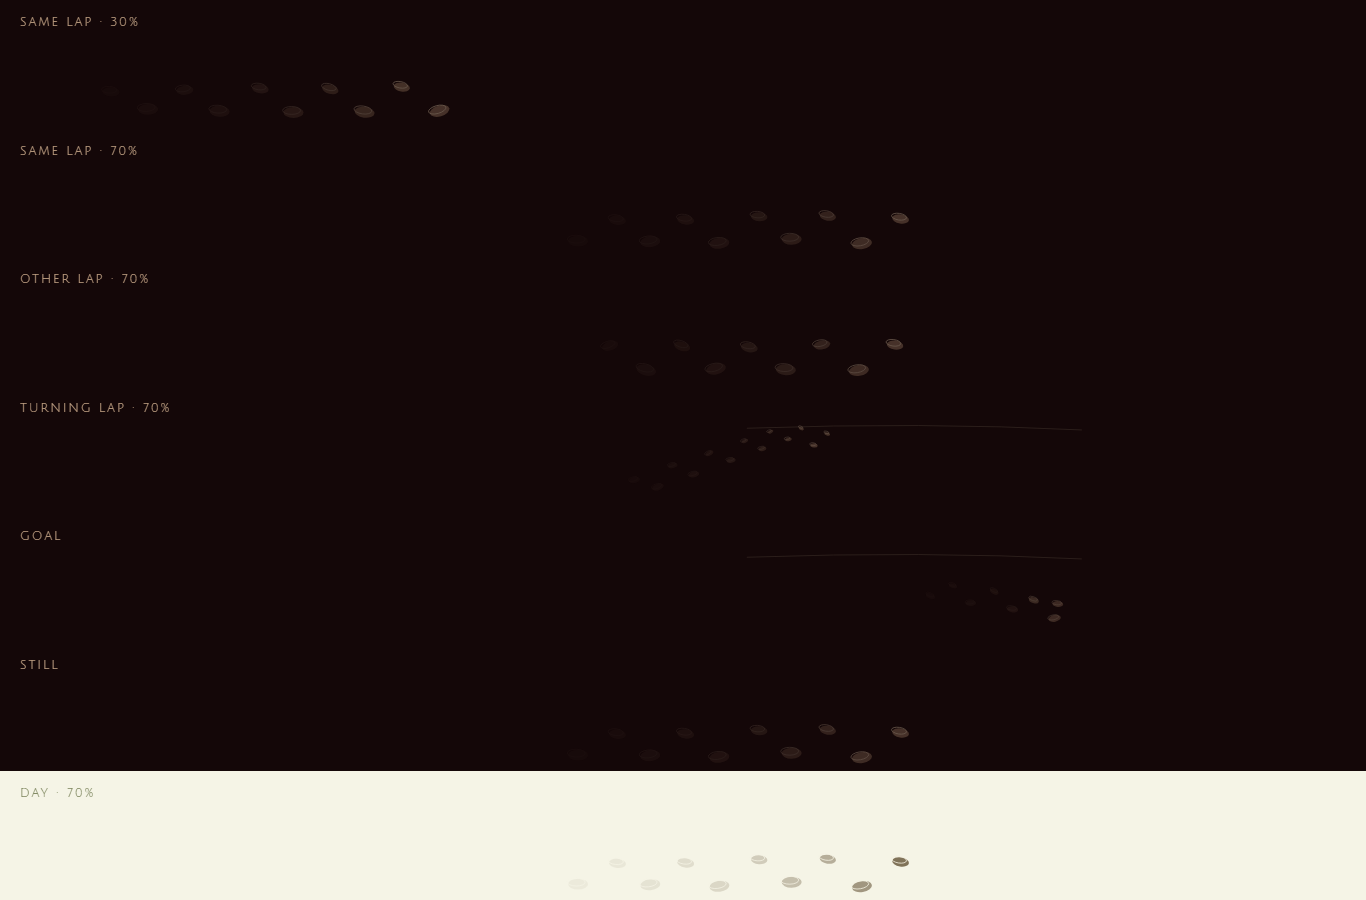
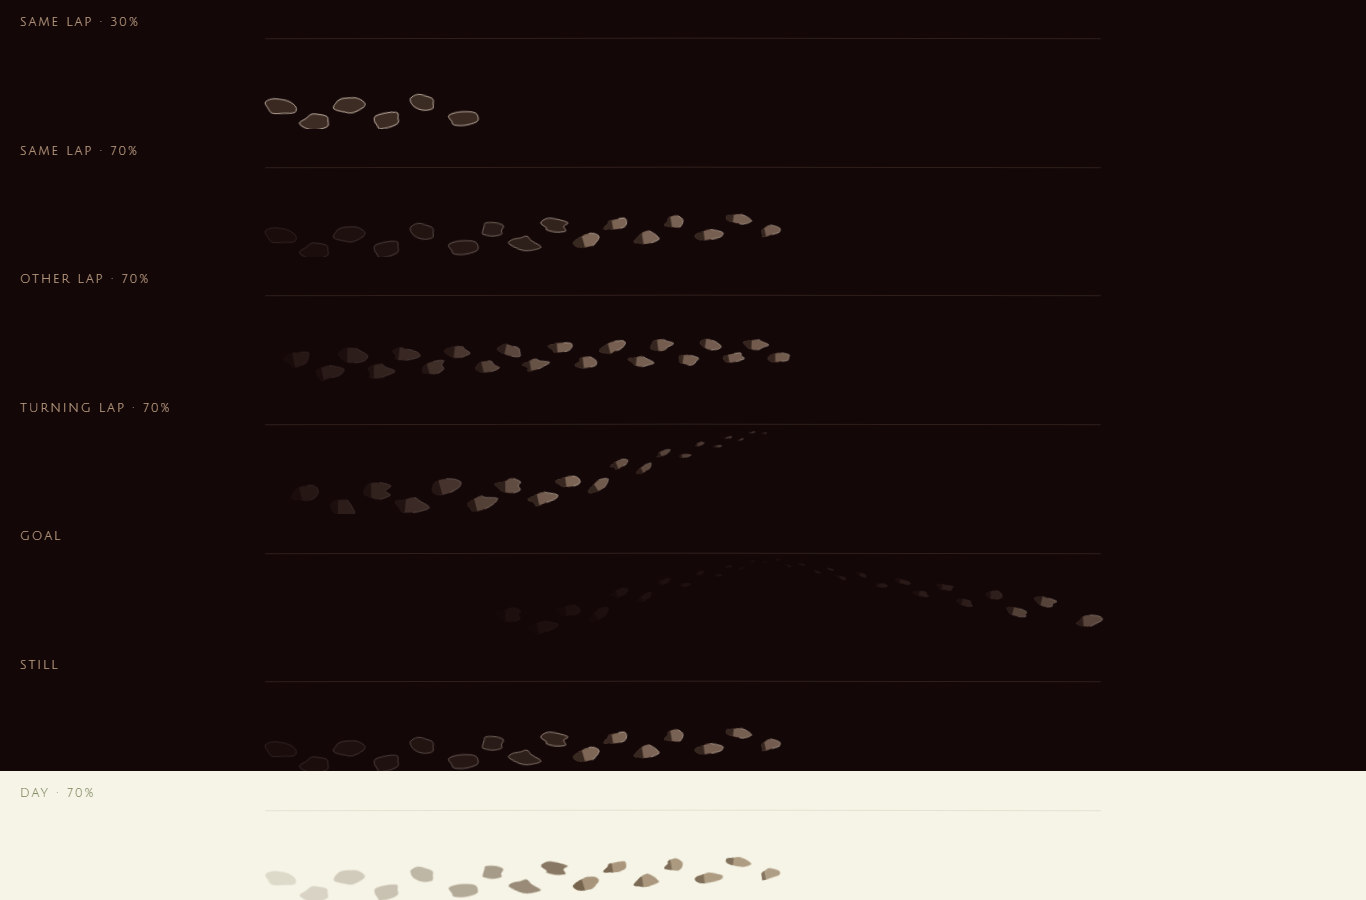
Flow the braid route and set the Trail prints in perspective.

diff --git a/docs/mockups/nomad-v2/index.html b/docs/mockups/nomad-v2/index.html
@@ -318,27 +318,30 @@
   function lapPlan(seed, opts) {
     opts = opts || {};
     var turn = opts.level ? false : !!opts.turn;
-    var swing = turn && !!opts.swing;
-    var turnAt = 0.36 + hash(seed, 1) * 0.1;
-    var swingAt = Math.min(0.84, turnAt + 0.24);
-    var W = 1400, H = turn ? 176 : 112;
+    var swing = turn && opts.swing !== false;
+    var turnAt = 0.4 + hash(seed, 1) * 0.1;
+    var swingAt = Math.min(0.88, turnAt + 0.26);
+    var W = 1400, H = 168, horizonY = 18, nearY = H - 26;
+    var wander = 8 + hash(seed, 4) * 22;
     var samples = [];
-    var steps = 100;
+    var steps = 140;
     for (var i = 0; i <= steps; i++) {
       var t = i / steps;
-      var x = 36 + t * (W - 78);
-      var y = H - 32 + (hash(seed, 20 + i) - 0.5) * 4;
+      var x = 28 + (1 - Math.pow(1 - t, 0.8)) * (W - 64);
+      x += Math.sin(t * (4.2 + hash(seed, 5) * 3.5) + seed) * wander * (1 - t * 0.35);
+      var y = nearY - t * 0.34 * (nearY - horizonY);
+      y += Math.sin(t * (2.4 + hash(seed, 6) * 2.2) + seed * 0.6) * 7 * (1 - t * 0.5);
       if (turn && t > turnAt) {
         var span = swing ? (swingAt - turnAt) : (1 - turnAt);
         var u = Math.min(1, (t - turnAt) / span);
-        var rise = u * (H - 64);
-        y -= rise;
+        y = y + (horizonY + 10 - y) * u;
         if (swing && t > swingAt) {
           var v = Math.min(1, (t - swingAt) / (1 - swingAt));
-          y += v * rise * 0.78;
+          var back = nearY - 0.2 * (nearY - horizonY);
+          y = y + (back - y) * v;
         }
       }
-      samples.push({ x: x, y: y });
+      samples.push({ x: x, y: Math.max(horizonY + 3, Math.min(nearY + 8, y)), t: t });
     }
     samples[0].s = 0;
     samples[0].ang = 0;
@@ -350,49 +353,97 @@
       samples[j].s = len;
       samples[j].ang = Math.atan2(dy, dx);
     }
-    return { samples: samples, len: len, H: H, W: W, turn: turn };
+    return { samples: samples, len: len, H: H, W: W, turn: turn, horizonY: horizonY, nearY: nearY };
+  }
+  function dentPath(seed, i, sc, flat) {
+    var n = 9, pts = [];
+    for (var k = 0; k < n; k++) {
+      var a = (k / n) * Math.PI * 2;
+      var front = Math.cos(a);
+      var heel = front < -0.25 ? 0.84 : 1;
+      var jit = 0.62 + hash(seed, i * 19 + k) * 0.7;
+      pts.push([Math.cos(a) * 26 * sc * heel * jit, Math.sin(a) * 13 * sc * flat * (0.78 + hash(seed, i * 19 + k + 8) * 0.4)]);
+    }
+    var d = '';
+    for (var k = 0; k < n; k++) {
+      var p0 = pts[(k + n - 1) % n], p1 = pts[k], p2 = pts[(k + 1) % n], p3 = pts[(k + 2) % n];
+      var c1x = p1[0] + (p2[0] - p0[0]) / 6, c1y = p1[1] + (p2[1] - p0[1]) / 6;
+      var c2x = p2[0] - (p3[0] - p1[0]) / 6, c2y = p2[1] - (p3[1] - p1[1]) / 6;
+      if (k === 0) d += 'M ' + p1[0].toFixed(2) + ' ' + p1[1].toFixed(2);
+      d += ' C ' + c1x.toFixed(2) + ' ' + c1y.toFixed(2) + ' ' + c2x.toFixed(2) + ' ' + c2y.toFixed(2) + ' ' + p2[0].toFixed(2) + ' ' + p2[1].toFixed(2);
+    }
+    return d + ' Z';
   }
   function renderTrail(frac, seed, opts) {
     opts = opts || {};
     var day = !!opts.day;
     var plan = lapPlan(seed, opts);
-    var shadow = day ? '#6E5E42' : '#5A4336';
-    var rim = day ? '#F4EFE0' : '#8C7968';
-    var haze = day ? '#C9BEA4' : '#3A2C26';
-    var gid = 'hg' + seed + (day ? 'd' : 'n') + Math.round(frac * 100) + (opts.goal ? 'g' : '');
-    var s = '';
-    if (plan.turn) s += '<path d="M '+(plan.W * 0.58).toFixed(0)+' '+(plan.H * 0.14).toFixed(0)+' Q '+(plan.W * 0.8).toFixed(0)+' '+(plan.H * 0.08).toFixed(0)+' '+plan.W+' '+(plan.H * 0.16).toFixed(0)+'" fill="none" stroke="'+haze+'" stroke-width="1.3" opacity="0.85"/>';
-    var positions = [];
-    var dist = 24;
-    var k = 0;
-    while (dist < plan.len - 6) {
-      positions.push(dist);
-      var here = pointAt(plan.samples, dist);
-      var high = Math.max(0, (plan.H * 0.7 - here.y) / (plan.H * 0.48));
-      dist += 40 * (1 - high * 0.4) * (0.9 + hash(seed, 100 + k) * 0.2);
-      k++;
+    var body = day ? '#A08B70' : '#8A7160';
+    var heel = day ? '#6A5640' : '#3C2C24';
+    var lip = day ? '#F3EBDD' : '#E4D5C4';
+    var haze = day ? '#C9BEA4' : '#6A5648';
+    var s = '<defs><filter id="grit" x="-40%" y="-40%" width="180%" height="180%"><feTurbulence type="fractalNoise" baseFrequency="0.07" numOctaves="2" seed="'+seed+'"/><feDisplacementMap in="SourceGraphic" scale="1.15"/></filter></defs>';
+    s += '<path d="M 0 '+plan.horizonY+' Q '+(plan.W/2)+' '+(plan.horizonY-2)+' '+plan.W+' '+plan.horizonY+'" fill="none" stroke="'+haze+'" stroke-width="1" opacity="0.55"/>';
+    var stride = 34 + hash(seed, 9) * 26;
+    var marks = [];
+    var t = 0.015;
+    var last = null;
+    while (t < 0.992) {
+      var smp = null;
+      for (var si = 1; si < plan.samples.length; si++) if (plan.samples[si].t >= t) { smp = plan.samples[si]; break; }
+      if (!smp) break;
+      var depth = Math.max(0, Math.min(1, (plan.nearY - smp.y) / (plan.nearY - plan.horizonY)));
+      var want = stride * (0.16 + 0.84 * (1 - depth));
+      if (!last || Math.hypot(smp.x - last.x, smp.y - last.y) >= want) {
+        marks.push(t);
+        last = smp;
+      }
+      t += 0.0035;
     }
-    if (frac >= 0.999) positions.push(plan.len);
-    var reach = frac * plan.len;
-    positions.forEach(function (at, i) {
-      if (at > reach + 0.2 && frac < 0.999) return;
-      var p = pointAt(plan.samples, Math.min(at, plan.len));
+    if (frac >= 0.999) marks.push(1);
+    marks.forEach(function (at, i) {
+      if (at > frac + 0.004 && frac < 0.999) return;
+      var p = (function () {
+        var samples = plan.samples;
+        if (at <= 0) return samples[0];
+        if (at >= 1) return samples[samples.length - 1];
+        for (var si = 1; si < samples.length; si++) {
+          if (samples[si].t >= at) {
+            var f = (at - samples[si - 1].t) / Math.max(0.0001, samples[si].t - samples[si - 1].t);
+            return {
+              x: samples[si - 1].x + (samples[si].x - samples[si - 1].x) * f,
+              y: samples[si - 1].y + (samples[si].y - samples[si - 1].y) * f,
+              ang: samples[si].ang || 0
+            };
+          }
+        }
+        return samples[samples.length - 1];
+      })();
+      var depth = Math.max(0, Math.min(1, (plan.nearY - p.y) / (plan.nearY - plan.horizonY)));
+      var sc = Math.max(0.07, 1 - depth * 0.9);
+      var flat = 0.32 + 0.68 * (1 - depth);
       var side = i % 2 === 0 ? -1 : 1;
-      var off = (13 + (hash(seed, 140 + i) - 0.5) * 3.5) * side;
+      var off = (15 * sc) * side * (0.85 + hash(seed, 140 + i) * 0.3);
       var nx = Math.cos((p.ang || 0) + Math.PI / 2);
       var ny = Math.sin((p.ang || 0) + Math.PI / 2);
       var x = p.x + nx * off;
       var y = p.y + ny * off;
-      var depth = Math.max(0, Math.min(1, (y - plan.H * 0.1) / (plan.H * 0.68)));
-      var sc = 0.38 + 0.62 * depth;
-      var behind = (reach - at) / 40;
-      var clear = Math.min(day ? 0.92 : 0.72, Math.exp(-Math.max(0, behind) / 3.4));
-      if (opts.goal) clear *= behind < 1.4 ? 0.8 : 0.35;
-      if (clear < 0.06) return;
-      var rot = ((p.ang || 0) + (hash(seed, 180 + i) - 0.5) * 0.35) * 180 / Math.PI;
-      s += '<g transform="translate('+x.toFixed(1)+' '+y.toFixed(1)+') rotate('+rot.toFixed(1)+')" opacity="'+Math.max(0.06, clear).toFixed(2)+'">';
-      s += '<ellipse cx="1.15" cy="1.25" rx="'+(11.2 * sc).toFixed(2)+'" ry="'+(6.1 * sc).toFixed(2)+'" fill="'+shadow+'"/>';
-      s += '<ellipse cx="-1" cy="-1" rx="'+(10 * sc).toFixed(2)+'" ry="'+(4.4 * sc).toFixed(2)+'" fill="none" stroke="'+rim+'" stroke-width="0.85"/>';
+      var behind = (frac - at) / 0.045;
+      var age = Math.min(1, Math.exp(-Math.max(0, behind - 6) / 5));
+      var clear = (0.22 + 0.78 * (1 - depth)) * age;
+      if (opts.goal) clear *= behind < 1.2 ? 0.7 : 0.32;
+      if (clear < 0.05) return;
+      var rot = ((p.ang || 0) + (hash(seed, 180 + i) - 0.5) * 0.5) * 180 / Math.PI;
+      var outline = dentPath(seed, i, sc, flat);
+      var hid = 'hc' + seed + 'x' + i;
+      var fid = 'fc' + seed + 'x' + i;
+      var cut = (7 * sc).toFixed(1);
+      s += '<g transform="translate('+x.toFixed(1)+' '+y.toFixed(1)+') rotate('+rot.toFixed(1)+')" opacity="'+Math.max(0.08, clear).toFixed(2)+'" filter="url(#grit)">';
+      s += '<clipPath id="'+hid+'"><rect x="-60" y="-40" width="'+(60 - 7*sc).toFixed(1)+'" height="80"/></clipPath>';
+      s += '<clipPath id="'+fid+'"><rect x="'+cut+'" y="-40" width="50" height="80"/></clipPath>';
+      s += '<path d="'+outline+'" fill="'+body+'"/>';
+      s += '<path d="'+outline+'" fill="'+heel+'" clip-path="url(#'+hid+')"/>';
+      s += '<path d="'+outline+'" fill="none" stroke="'+lip+'" stroke-width="'+Math.max(0.6, 1.3*sc).toFixed(2)+'" stroke-linejoin="round" clip-path="url(#'+fid+')"/>';
       s += '</g>';
     });
     return { svg: s, H: plan.H, W: plan.W };
@@ -499,20 +550,31 @@
     }
     function sceneSpec(kind) {
       if (kind === 'b') {
-        var meet = [
-          { x:58, y:150, id:'Ideas' },
-          { x:190, y:78, id:'Text' },
-          { x:310, y:168, id:'Feedback' },
-          { x:440, y:90, id:'Page' },
-          { x:575, y:150, id:'Final' }
-        ];
+        var d = 'M 28 168 C 140 36, 230 28, 330 148 C 410 240, 470 200, 530 118 C 575 55, 620 78, 648 132';
+        function braidAt(t) {
+          var segs = [
+            [[28,168],[140,36],[230,28],[330,148]],
+            [[330,148],[410,240],[470,200],[530,118]],
+            [[530,118],[575,55],[620,78],[648,132]]
+          ];
+          var f = Math.min(0.999, Math.max(0, t)) * segs.length;
+          var i = Math.min(segs.length - 1, Math.floor(f));
+          var u = f - i, o = 1 - u, s = segs[i];
+          function ax(k) { return s[0][k]*o*o*o + 3*s[1][k]*o*o*u + 3*s[2][k]*o*u*u + s[3][k]*u*u*u; }
+          return { x: ax(0), y: ax(1) };
+        }
+        var stations = [['Ideas',0.03],['Text',0.22],['Feedback',0.48],['Page',0.7],['Final',0.84]].map(function (pair) {
+          var p = braidAt(pair[1]);
+          return { x: p.x, y: p.y, id: pair[0], at: pair[1] };
+        });
         return {
-          d: through(meet),
-          stations: meet.filter(function (p) { return p.id; }),
+          d: d,
+          stations: stations,
           faint: [
-            'M 30 120 C 180 40, 340 200, 640 70',
-            'M 30 190 C 200 210, 360 40, 640 160',
-            'M 40 100 C 160 170, 420 190, 640 120'
+            'M 28 168 C 140 36, 230 28, 330 148 C 420 255, 530 220, 648 150',
+            'M 28 205 C 170 245, 290 70, 430 108 C 530 136, 590 40, 648 96',
+            'M 28 108 C 160 155, 300 215, 450 88 C 540 18, 600 70, 648 140',
+            d
           ]
         };
       }
@@ -559,13 +621,20 @@
         var pop = o.pop && st.id === 'Final' && lit;
         var col = lit ? brass : sand;
         var sc = pop ? 1.08 : 1;
-        var label = o.words ? '<text x="30" y="16" fill="'+word+'" font-family="Julius Sans One, sans-serif" font-size="8" letter-spacing="1.4">'+WORDS[st.id]+'</text>' : '';
+        var label = '';
+        if (o.words) {
+          var long = st.id === 'Final';
+          label = long
+            ? '<text text-anchor="end" x="-4" y="-8" fill="'+word+'" font-family="Julius Sans One, sans-serif" font-size="8" letter-spacing="1.2">'+WORDS[st.id]+'</text>'
+            : '<text x="28" y="16" fill="'+word+'" font-family="Julius Sans One, sans-serif" font-size="8" letter-spacing="1.4">'+WORDS[st.id]+'</text>';
+        }
         return '<g transform="translate('+st.x+' '+st.y+') scale('+sc+') translate(-12 -12)"><g fill="none" stroke="'+col+'" stroke-width="1.7" stroke-linecap="round" stroke-linejoin="round" color="'+col+'">'+STAGE[st.id]+'</g>'+label+'</g>';
       }).join('');
+      var wob = kind === 'b' ? ' filter="url(#sandx)"' : '';
       var faint = spec.faint.map(function (d) {
-        return '<path d="'+d+'" fill="none" stroke="'+sand+'" stroke-width="1.15" opacity="0.35"/>';
+        return '<path d="'+d+'" fill="none" stroke="'+sand+'" stroke-width="1.25" opacity="0.4"'+wob+'/>';
       }).join('');
-      return '<div class="spanel'+(o.wide?' wide':'')+'" style="background:'+ground+'"><div class="cap" style="color:'+word+'">'+o.cap+'</div><div class="mk"></div><div style="position:absolute;inset:0;background:radial-gradient(ellipse 90% 100% at 100% 78%, '+glow+', transparent 66%)"></div><svg class="scene" viewBox="0 0 660 280" preserveAspectRatio="xMidYMid meet"><g fill="none">'+faint+'<path d="'+spec.d+'" stroke="'+sand+'" stroke-width="1.3" opacity="0.28"/><path d="'+spec.d+'" stroke="'+brass+'" stroke-width="1.8" pathLength="100" stroke-dasharray="'+(o.frac*100).toFixed(1)+' 100"/></g>'+marks+'</svg></div>';
+      return '<div class="spanel'+(o.wide?' wide':'')+'" style="background:'+ground+'"><div class="cap" style="color:'+word+'">'+o.cap+'</div><div class="mk"></div><div style="position:absolute;inset:0;background:radial-gradient(ellipse 90% 100% at 100% 78%, '+glow+', transparent 66%)"></div><svg class="scene" viewBox="0 0 660 280" preserveAspectRatio="xMidYMid meet"><g fill="none">'+faint+'<path d="'+spec.d+'" stroke="'+sand+'" stroke-width="1.35" opacity="0.34"'+wob+'/><path d="'+spec.d+'" stroke="'+brass+'" stroke-width="1.9" pathLength="100" stroke-dasharray="'+(o.frac*100).toFixed(1)+' 100"'+wob+'/></g>'+marks+'</svg></div>';
     }
     var which = frame === 'splash-b' ? 'b' : frame === 'splash-c' ? 'c' : 'a';
     var wordsOn = frame !== 'splash-plain';
